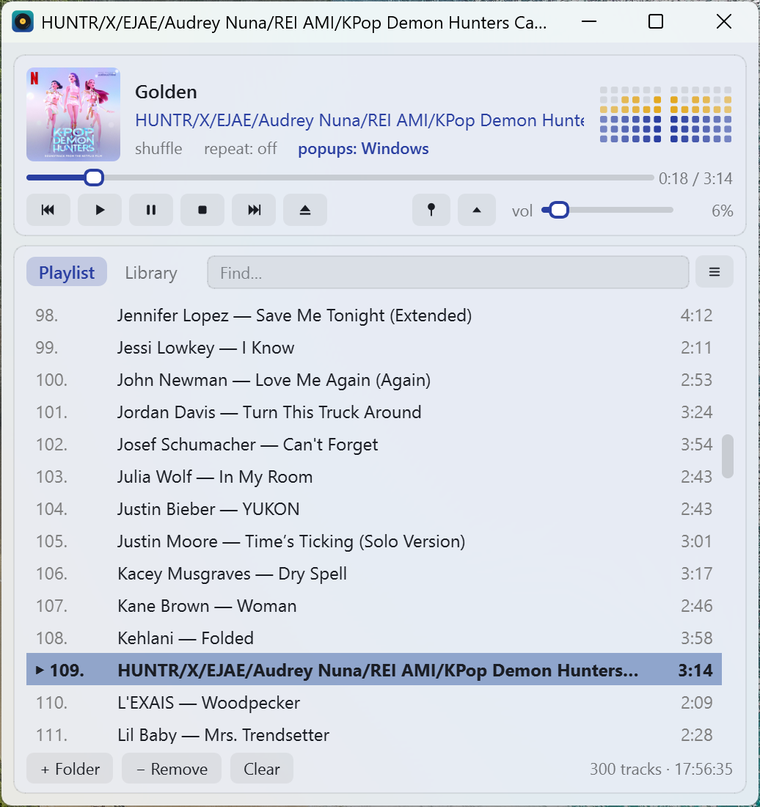
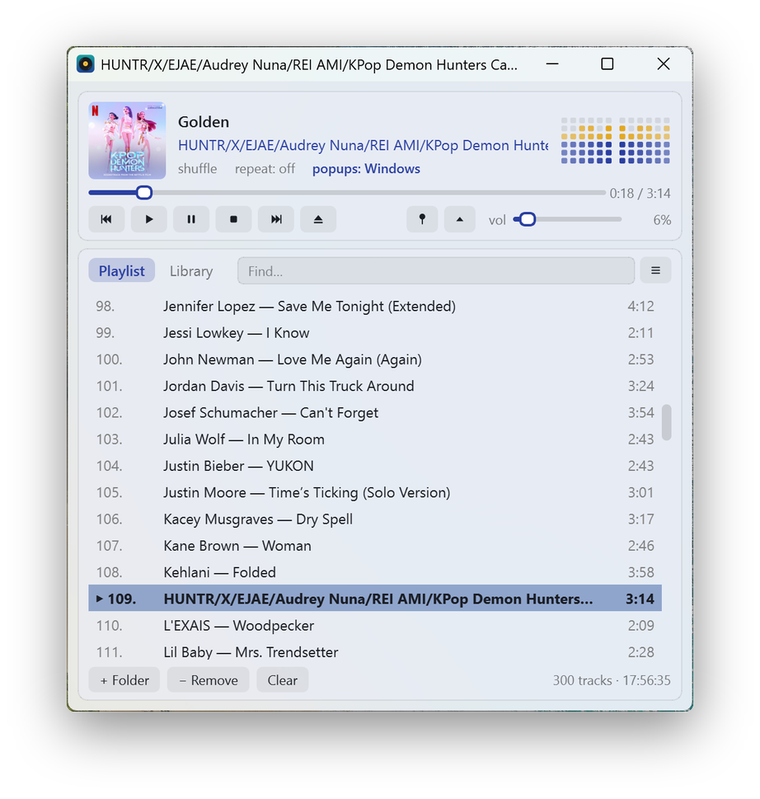
Give the Windows 11 screenshots rounded corners and a window shadow
Matches the look of the macOS and Linux screenshots.

Claude-Session: https://claude.ai/code/session_01HZx8mLPDwnePxQZhdkCTi1

diff --git a/docs/uk/index.html b/docs/uk/index.html
@@ -46,7 +46,7 @@
       </div>
       <p class="hero-note"><span data-version-label>Остання версія</span> <b data-version>…</b> · Безплатно, відкритий код · ліцензія MIT</p>
     </div>
-    <div class="hero-shots" aria-hidden="false"><img src="../img/desk-mac-uk-full.png" alt="Повний вигляд, macOS" width="760" height="907" class="h1-shot"><img src="../img/desk-win-full-dark.png" alt="Темна тема, Windows 11" width="760" height="807" class="h2-shot"><img src="../img/desk-mac-uk-mini-dark.png" alt="Міні-плеєр, темна тема, macOS" width="760" height="353" class="h3-shot"></div>
+    <div class="hero-shots" aria-hidden="false"><img src="../img/desk-mac-uk-full.png" alt="Повний вигляд, macOS" width="760" height="907" class="h1-shot"><img src="../img/desk-win-full-dark.png" alt="Темна тема, Windows 11" width="760" height="799" class="h2-shot"><img src="../img/desk-mac-uk-mini-dark.png" alt="Міні-плеєр, темна тема, macOS" width="760" height="353" class="h3-shot"></div>
   </div>
 </section>
 
@@ -66,7 +66,7 @@
   <div class="wrap">
     <h2>Той самий плеєр на кожній системі</h2>
     <div class="tabs" role="tablist"><button role="tab" data-tab="mac" aria-selected="true">macOS</button><button role="tab" data-tab="win" aria-selected="false">Windows 11</button><button role="tab" data-tab="linux" aria-selected="false">Linux</button></div>
-    <div class="shots" data-panel="mac"><figure><img src="../img/desk-mac-uk-full.png" alt="Повний вигляд, macOS" width="760" height="907" loading="lazy"><figcaption>Повний вигляд, macOS</figcaption></figure><figure><img src="../img/desk-mac-uk-compact-dark.png" alt="Компактний вигляд, темна тема, macOS" width="760" height="907" loading="lazy"><figcaption>Компактний вигляд, темна тема, macOS</figcaption></figure><figure><img src="../img/desk-mac-uk-full-dark.png" alt="Повний вигляд, темна тема, macOS" width="760" height="907" loading="lazy"><figcaption>Повний вигляд, темна тема, macOS</figcaption></figure></div><div class="shots" data-panel="win" hidden><figure><img src="../img/desk-win-full.png" alt="Повний вигляд з фоном Mica, Windows 11" width="760" height="807" loading="lazy"><figcaption>Повний вигляд з фоном Mica, Windows 11</figcaption></figure><figure><img src="../img/desk-win-full-dark.png" alt="Темна тема, Windows 11" width="760" height="807" loading="lazy"><figcaption>Темна тема, Windows 11</figcaption></figure><figure><img src="../img/desk-win-compact.png" alt="Компактний вигляд, Windows 11" width="760" height="807" loading="lazy"><figcaption>Компактний вигляд, Windows 11</figcaption></figure></div><div class="shots" data-panel="linux" hidden><figure><img src="../img/desk-linux-uk-full-dark.png" alt="Повний вигляд, темна тема, Kubuntu" width="648" height="732" loading="lazy"><figcaption>Повний вигляд, темна тема, Kubuntu</figcaption></figure><figure><img src="../img/desk-linux-uk-compact.png" alt="Компактний вигляд, Kubuntu" width="623" height="732" loading="lazy"><figcaption>Компактний вигляд, Kubuntu</figcaption></figure><figure><img src="../img/desk-linux-uk-compact-dark.png" alt="Компактний вигляд, темна тема, Kubuntu" width="623" height="732" loading="lazy"><figcaption>Компактний вигляд, темна тема, Kubuntu</figcaption></figure></div>
+    <div class="shots" data-panel="mac"><figure><img src="../img/desk-mac-uk-full.png" alt="Повний вигляд, macOS" width="760" height="907" loading="lazy"><figcaption>Повний вигляд, macOS</figcaption></figure><figure><img src="../img/desk-mac-uk-compact-dark.png" alt="Компактний вигляд, темна тема, macOS" width="760" height="907" loading="lazy"><figcaption>Компактний вигляд, темна тема, macOS</figcaption></figure><figure><img src="../img/desk-mac-uk-full-dark.png" alt="Повний вигляд, темна тема, macOS" width="760" height="907" loading="lazy"><figcaption>Повний вигляд, темна тема, macOS</figcaption></figure></div><div class="shots" data-panel="win" hidden><figure><img src="../img/desk-win-full.png" alt="Повний вигляд з фоном Mica, Windows 11" width="760" height="799" loading="lazy"><figcaption>Повний вигляд з фоном Mica, Windows 11</figcaption></figure><figure><img src="../img/desk-win-full-dark.png" alt="Темна тема, Windows 11" width="760" height="799" loading="lazy"><figcaption>Темна тема, Windows 11</figcaption></figure><figure><img src="../img/desk-win-compact.png" alt="Компактний вигляд, Windows 11" width="760" height="799" loading="lazy"><figcaption>Компактний вигляд, Windows 11</figcaption></figure></div><div class="shots" data-panel="linux" hidden><figure><img src="../img/desk-linux-uk-full-dark.png" alt="Повний вигляд, темна тема, Kubuntu" width="648" height="732" loading="lazy"><figcaption>Повний вигляд, темна тема, Kubuntu</figcaption></figure><figure><img src="../img/desk-linux-uk-compact.png" alt="Компактний вигляд, Kubuntu" width="623" height="732" loading="lazy"><figcaption>Компактний вигляд, Kubuntu</figcaption></figure><figure><img src="../img/desk-linux-uk-compact-dark.png" alt="Компактний вигляд, темна тема, Kubuntu" width="623" height="732" loading="lazy"><figcaption>Компактний вигляд, темна тема, Kubuntu</figcaption></figure></div>
     <div class="shots shots-mini"><figure><img src="../img/desk-mac-uk-mini-dark.png" alt="Міні-плеєр, темна тема, macOS" width="760" height="353" loading="lazy"><figcaption>Міні-плеєр, темна тема, macOS</figcaption></figure><figure><img src="../img/desk-linux-uk-mini.png" alt="Міні-плеєр, Kubuntu" width="623" height="302" loading="lazy"><figcaption>Міні-плеєр, Kubuntu</figcaption></figure></div>
     <p class="cap">Міні-плеєр — лише смужка керування, закріплена поверх інших вікон.</p>
   </div>

diff --git a/docs/index.html b/docs/index.html
@@ -46,7 +46,7 @@
       </div>
       <p class="hero-note"><span data-version-label>Latest version</span> <b data-version>…</b> · Free and open source · MIT license</p>
     </div>
-    <div class="hero-shots" aria-hidden="false"><img src="img/desk-mac-en-full.png" alt="Full view, macOS" width="760" height="907" class="h1-shot"><img src="img/desk-win-full-dark.png" alt="Dark theme, Windows 11" width="760" height="807" class="h2-shot"><img src="img/desk-mac-en-mini.png" alt="Mini player, macOS" width="760" height="353" class="h3-shot"></div>
+    <div class="hero-shots" aria-hidden="false"><img src="img/desk-mac-en-full.png" alt="Full view, macOS" width="760" height="907" class="h1-shot"><img src="img/desk-win-full-dark.png" alt="Dark theme, Windows 11" width="760" height="799" class="h2-shot"><img src="img/desk-mac-en-mini.png" alt="Mini player, macOS" width="760" height="353" class="h3-shot"></div>
   </div>
 </section>
 
@@ -66,7 +66,7 @@
   <div class="wrap">
     <h2>The same player on every system</h2>
     <div class="tabs" role="tablist"><button role="tab" data-tab="mac" aria-selected="true">macOS</button><button role="tab" data-tab="win" aria-selected="false">Windows 11</button><button role="tab" data-tab="linux" aria-selected="false">Linux</button></div>
-    <div class="shots" data-panel="mac"><figure><img src="img/desk-mac-en-full.png" alt="Full view, macOS" width="760" height="907" loading="lazy"><figcaption>Full view, macOS</figcaption></figure><figure><img src="img/desk-mac-en-compact.png" alt="Compact view, macOS" width="760" height="907" loading="lazy"><figcaption>Compact view, macOS</figcaption></figure><figure><img src="img/desk-mac-en-compact-dark.png" alt="Compact view, dark theme, macOS" width="760" height="907" loading="lazy"><figcaption>Compact view, dark theme, macOS</figcaption></figure></div><div class="shots" data-panel="win" hidden><figure><img src="img/desk-win-full.png" alt="Full view with the Mica background, Windows 11" width="760" height="807" loading="lazy"><figcaption>Full view with the Mica background, Windows 11</figcaption></figure><figure><img src="img/desk-win-full-dark.png" alt="Dark theme, Windows 11" width="760" height="807" loading="lazy"><figcaption>Dark theme, Windows 11</figcaption></figure><figure><img src="img/desk-win-compact.png" alt="Compact view, Windows 11" width="760" height="807" loading="lazy"><figcaption>Compact view, Windows 11</figcaption></figure></div><div class="shots" data-panel="linux" hidden><figure><img src="img/desk-linux-en-full.png" alt="Full view, Kubuntu" width="646" height="732" loading="lazy"><figcaption>Full view, Kubuntu</figcaption></figure><figure><img src="img/desk-linux-en-full-dark.png" alt="Dark theme, Kubuntu" width="648" height="732" loading="lazy"><figcaption>Dark theme, Kubuntu</figcaption></figure><figure><img src="img/desk-linux-en-compact.png" alt="Compact view, Kubuntu" width="646" height="732" loading="lazy"><figcaption>Compact view, Kubuntu</figcaption></figure></div>
+    <div class="shots" data-panel="mac"><figure><img src="img/desk-mac-en-full.png" alt="Full view, macOS" width="760" height="907" loading="lazy"><figcaption>Full view, macOS</figcaption></figure><figure><img src="img/desk-mac-en-compact.png" alt="Compact view, macOS" width="760" height="907" loading="lazy"><figcaption>Compact view, macOS</figcaption></figure><figure><img src="img/desk-mac-en-compact-dark.png" alt="Compact view, dark theme, macOS" width="760" height="907" loading="lazy"><figcaption>Compact view, dark theme, macOS</figcaption></figure></div><div class="shots" data-panel="win" hidden><figure><img src="img/desk-win-full.png" alt="Full view with the Mica background, Windows 11" width="760" height="799" loading="lazy"><figcaption>Full view with the Mica background, Windows 11</figcaption></figure><figure><img src="img/desk-win-full-dark.png" alt="Dark theme, Windows 11" width="760" height="799" loading="lazy"><figcaption>Dark theme, Windows 11</figcaption></figure><figure><img src="img/desk-win-compact.png" alt="Compact view, Windows 11" width="760" height="799" loading="lazy"><figcaption>Compact view, Windows 11</figcaption></figure></div><div class="shots" data-panel="linux" hidden><figure><img src="img/desk-linux-en-full.png" alt="Full view, Kubuntu" width="646" height="732" loading="lazy"><figcaption>Full view, Kubuntu</figcaption></figure><figure><img src="img/desk-linux-en-full-dark.png" alt="Dark theme, Kubuntu" width="648" height="732" loading="lazy"><figcaption>Dark theme, Kubuntu</figcaption></figure><figure><img src="img/desk-linux-en-compact.png" alt="Compact view, Kubuntu" width="646" height="732" loading="lazy"><figcaption>Compact view, Kubuntu</figcaption></figure></div>
     <div class="shots shots-mini"><figure><img src="img/desk-mac-en-mini.png" alt="Mini player, macOS" width="760" height="353" loading="lazy"><figcaption>Mini player, macOS</figcaption></figure><figure><img src="img/desk-mac-en-mini-dark.png" alt="Mini player, dark theme, macOS" width="760" height="350" loading="lazy"><figcaption>Mini player, dark theme, macOS</figcaption></figure></div>
     <p class="cap">The mini player — just the player strip, pinned above other windows.</p>
   </div>
